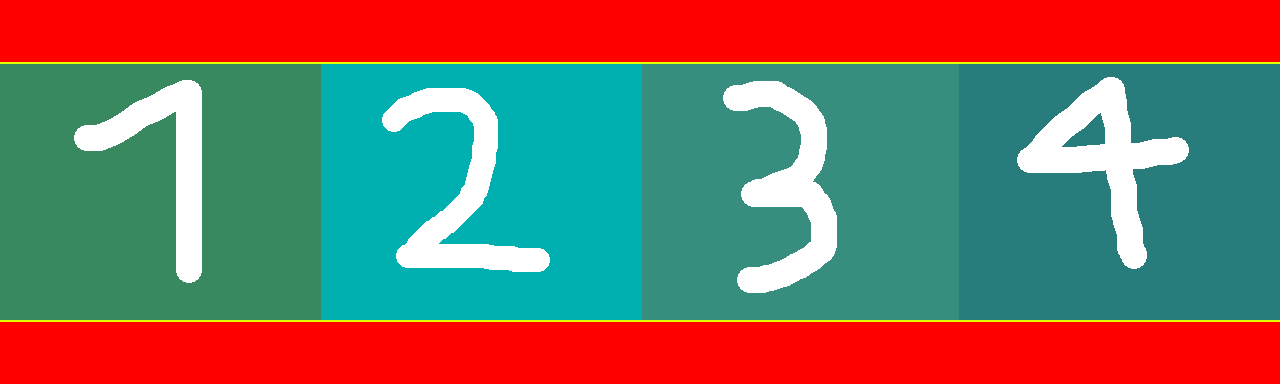
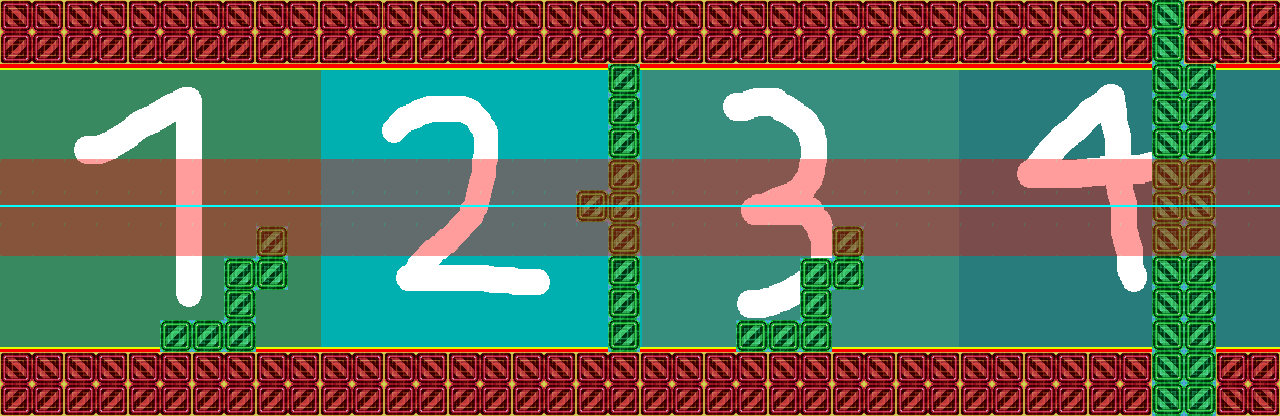
- Added blocks - Added temporary block spawner - Revamped player control and collision (collision changes are related to blocks only) - Changed Background

diff --git a/Main/class__variables.py b/Main/class__variables.py
@@ -10,12 +10,13 @@ pygame.init()
 
 setAutoUpdate(False)
 
-W, H = 640, 384 #tool o arze windows
+W, H = 640, 416 #tool o arze windows
 win = screenSize(W,H)
 
 global scrollSpeed
+
 scrollSpeed = -5 #sorat harekate background
-setBackgroundImage("images/bg.png")
+setBackgroundImage("images/temp_bg.png")
 
 setWindowTitle("Gravity Ninja")
 setIcon('images/icon.png')
@@ -37,8 +38,9 @@ class Spawner:
         self.x = x
         self.y = y
         self.localClock = clock()
+        self.init = True
     def spawnCoin(self):
-        global coinlist , c , Spr , Pt
+        global coinlist , Spr , Pt
         Spr = "images/spr_coin1.png"
         Pt = 5
         RanY = [290,240,190,140,90]
@@ -63,17 +65,21 @@ class Spawner:
             coinlist.append(Coin(self.x, random.choice(RanY),11,11, Spr, Pt))
         for c in coinlist:
             c.spawn()
+            if c.xpos < 0:
+                coinlist.pop(coinlist.index(c))
+                killSprite(c.sprite)
             if c.collide(pl.hitbox):
                 coinlist.pop(coinlist.index(c))
                 killSprite(c.sprite)
-                playSound(s_coin)
                 c.collected = True
+                playSound(s_coin)
                 scoreboard.Addscore(c.point)
+
 
 
     def spawnHazard(self):
         global enemylist, h
-        RanY = [290, 90]
+        RanY = [320, 96]
         RanTimer = random.randrange(7000, 10000) #later should be affected by screen/scroll speed(which increases overtime)
 
         if clock() > self.localClock:
@@ -87,19 +93,43 @@ class Spawner:
                 pl.despawn()
 
 
+    def spawnBlock(self):
+        global BLOCKlist
+        if clock() > self.localClock:
+            self.localClock = clock() + 250
+            if self.init:
+                for i in range(1, 742, 32):
+                    BLOCKlist.append(Block(0 + i, 18, 32, 32, "images/spr_block.png"))
+                    BLOCKlist.append(Block(0 + i, 50, 32, 32, "images/spr_block.png"))
+                    BLOCKlist.append(Block(0 + i, 400, 32, 32, "images/spr_block.png"))
+                    BLOCKlist.append(Block(0 + i, 368, 32, 32, "images/spr_block.png"))
+                self.init = False
+            BLOCKlist.append(Block(640, 18, 32, 32, "images/spr_block.png"))
+            BLOCKlist.append(Block(640, 50, 32, 32, "images/spr_block.png"))
+            BLOCKlist.append(Block(640, 400, 32, 32, "images/spr_block.png"))
+            BLOCKlist.append(Block(640, 368, 32, 32, "images/spr_block.png"))
+        for b in BLOCKlist:
+            b.spawn()
+            if b.xpos < 0:
+                BLOCKlist.pop(BLOCKlist.index(b))
+                killSprite(b.sprite)
+
+
 class Player:
 
-    def __init__(self,xpos,ypos,width,height,grav,spr):
+    def __init__(self,xpos,ypos,width,height,spr):
         self.alive = True
         self.xpos = xpos
         self.ypos = ypos
         self.width = width
         self.height = height
-        self.grav = grav #har che ghadr bishtar bashe jazebe bishtare
+        self.grav = 7 #har che ghadr bishtar bashe jazebe bishtare
         self.sprite = makeSprite(spr,frames=32) #akse player
         self.xgrav = 1 # age -1 beshe yani jazabe bar aks shode
-        self.inAir = False #in vase ine ke vasat paridan natooni jazabe taghir bedi
+        self.inAir = True #in vase ine ke vasat paridan natooni jazabe taghir bedi
         self.mg = "regG" # in nabashe player toye zamin fooroo mire (zamin kononie player ro taeen mikone)
+        self.Grounded = False
+        self.IsonGround = False
 
         ##### marboot be animation va hitbox
         self.frame = 0
@@ -108,6 +138,7 @@ class Player:
         self.hitbox = (self.xpos - 5.5, self.ypos - 5.5, self.width, self.height)
 
     def spawn(self):
+
         showSprite(self.sprite)
         if clock() > self.localClock:  ##### marboot be animation
             self.frame = (self.frame+1)%self.gframe
@@ -117,29 +148,21 @@ class Player:
         
             #control player
         
-            if (keyPressed("up") and self.inAir == False and self.mg == "regG"): #kelid bala ro bezanin player mipare bala. hamchenin check mikone ke 1.player toye hava nist 2.player roye zamine (2 baad taghir mikone)
+            if (keyPressed("up") and self.inAir == False and self.Grounded == True and self.mg == "regG"): #kelid bala ro bezanin player mipare bala. hamchenin check mikone ke 1.player toye hava nist 2.player roye zamine (2 baad taghir mikone)
                 playSound(s_jump)
-                self.xgrav = -1                                             #jazebe bar aks mishe
-            elif (keyPressed("down") and self.inAir == False and self.mg == "revG"): #mesle ghabli vali baraye az bala be paeen omadane player (kelid paeen ro bezanim mipare paeen)
+                self.Grounded = False
+                self.inAir = True
+                self.mg = "revG"
+                self.xgrav = -1
+            elif (keyPressed("down") and self.inAir == False and self.Grounded == True and self.mg == "revG"): #mesle ghabli vali baraye az bala be paeen omadane player (kelid paeen ro bezanim mipare paeen)
                 playSound(s_jump)
-                self.xgrav = 1                                              #jazebe bar migarde halat addi
+                self.Grounded = False
+                self.inAir = True
+                self.mg = "regG"
+                self.xgrav = 1
 
             self.ypos += (self.grav * self.xgrav) # mokhtasat y player ro hesab mikone
             moveSprite(self.sprite, self.xpos, self.ypos, True) #bar asas jazabe player tekoon mikhore
-
-
-            if self.ypos >= 320: #in be tor movaghat ye zamin dorost mikone ta player roosh vayste
-                self.xgrav = 0 #baad ina ro be ye class "floor" ya "wall" ke ye objecte jodas montaghel mikonim
-                self.mg = "regG"
-                self.inAir = False
-
-            elif self.ypos <= 64:
-                self.xgrav = 0
-                self.mg = "revG"
-                self.inAir = False
-
-            else:
-                self.inAir = True
 
             #Animatione player
             if self.inAir == False:
@@ -160,6 +183,31 @@ class Player:
 
             self.hitbox = (self.xpos - 25, self.ypos - 25, self.width, self.height)
         #pygame.draw.rect(win, (0, 0, 255), self.hitbox, 2)
+
+    def collide(self, rect):
+        if rect[0] + rect[2] > self.hitbox[0] and rect[0] < self.hitbox[0] + self.hitbox[2]:
+            if rect[1] + rect[3] > self.hitbox[1] and rect[1] < self.hitbox[1] + self.hitbox[3]:
+                return True
+        return False
+
+    def collisionCheck(self):
+
+        if self.mg == "regG":
+            self.xgrav = 1
+        if self.mg == "revG":
+            self.xgrav = -1
+
+
+        global i
+        for i in BLOCKlist:
+
+            if i.pseudoCollide(self.hitbox):
+                self.Grounded = True
+                self.inAir = False
+                self.xgrav = 0
+
+            if i.collide(self.hitbox):
+                print("player hit a block")
 
     def despawn(self): #player mimire va spritesh az bane mire
         if self.alive == True:
@@ -197,10 +245,6 @@ class Coin:
             moveSprite(self.sprite, self.xpos, self.ypos, True)
             changeSpriteImage(self.sprite, 0 * 8 + self.frame)
 
-        if self.xpos < 0:
-            killSprite(self.sprite)
-            self.collected = True
-
         self.hitbox = (self.xpos - 5.5, self.ypos - 5.5, self.width, self.height)
         # pygame.draw.rect(win, (0, 0, 255), self.hitbox, 2)
 
@@ -225,7 +269,7 @@ class Enemy:
     def spawn(self):
         showSprite(self.sprite)
         self.xpos -= self.speed
-        if self.ypos == 90:
+        if self.ypos == 96:
             changeSpriteImage(self.sprite,1)
         else:
             changeSpriteImage(self.sprite,0)
@@ -233,7 +277,7 @@ class Enemy:
         moveSprite(self.sprite, self.xpos, self.ypos, True)
 
         self.hitbox = (self.xpos - 46.5, self.ypos - 29, self.width - 36, self.height)
-        pygame.draw.rect(win, (0, 0, 255), self.hitbox, 2)
+        #pygame.draw.rect(win, (0, 0, 255), self.hitbox, 2)
         if self.xpos < -50:
             killSprite(self.sprite)
 
@@ -244,10 +288,45 @@ class Enemy:
                 return True
         return False
 
+
+class Block:
+    def __init__(self,xpos,ypos,width,height,spr):
+        self.xpos = xpos
+        self.ypos = ypos
+        self.width = width
+        self.height = height
+        self.sprite = makeSprite(spr)
+        self.speed = 2
+        self.frame = 0
+        self.gframe = 8
+        self.localClock = clock()
+        self.hitbox = (self.xpos - 16, self.ypos - 16, self.width, self.height)
+        self.pitbox = (self.xpos - 19, self.ypos - 24, self.width + 4, self.height + 10)
+    def spawn(self):
+        showSprite(self.sprite)
+        self.xpos -= self.speed
+        moveSprite(self.sprite, self.xpos, self.ypos, True)
+
+        self.hitbox = (self.xpos - 16, self.ypos - 16, self.width, self.height)
+        self.pitbox = (self.xpos - 19, self.ypos - 20, self.width + 4, self.height + 10)
+        #pygame.draw.rect(win, (0, 0, 255), self.pitbox, 2)
+
+    def collide(self, rect):
+        if rect[0] + rect[2] > self.hitbox[0] and rect[0] < self.hitbox[0] + self.hitbox[2]:
+            if rect[1] + rect[3] > self.hitbox[1] and rect[1] < self.hitbox[1] + self.hitbox[3]:
+                return True
+        return False
+
+    def pseudoCollide(self, rect):
+        if rect[0] + rect[2] > self.pitbox[0] and rect[0] < self.pitbox[0] + self.pitbox[2]:
+            if rect[1] + rect[3] > self.pitbox[1] and rect[1] < self.pitbox[1] + self.pitbox[3]:
+                return True
+        return False
+
 class ScoreSystem:
     def __init__(self, xpos, ypos,size): #sprite too?
         self.score = 0
-        self.body = makeLabel(str(self.score),size, xpos, ypos, "black")
+        self.body = makeLabel(str(self.score),size, xpos, ypos, "white")
     def Reset(self):
         self.score = 0
     def Setscore(self,num):
@@ -270,10 +349,11 @@ class MusicPlayer:
 
 
 global pl
-pl = Player(112,322,45,45,7,"images/SPR_NINJA.png")
+pl = Player(200,240,45,45,"images/SPR_NINJA.png")
 
 spawnerC = Spawner(750,322)
 spawnerH = Spawner(750,322)
+spawnerB = Spawner(750,64)
 
 global scoreboard
 scoreboard = ScoreSystem(575,10,40)
@@ -281,6 +361,11 @@ scoreboard.draw()
 
 coinlist = [Coin(-999, -999,11,11, "images/spr_coin1.png", 20)]
 enemylist = [Enemy(-999, -999,113,58, "images/spr_enemy.png")]
+BLOCKlist = [Block(-999, -999,113,58, "images/spr_enemy.png")]
+
+
 
 playSound(mus_test1,loops=-1) #turn to class (music player)
+
+
 

diff --git a/Main/main_loop.py b/Main/main_loop.py
@@ -9,11 +9,15 @@ import random
 
 run = True
 
+
+
 while run:
 
     pl.spawn()
     spawnerC.spawnCoin()
     spawnerH.spawnHazard()
+    spawnerB.spawnBlock()
+    pl.collisionCheck()
     scrollBackground(scrollSpeed, 0)  # harekate background
 
     # if (keyPressed("left")): #in size windows ro tagheer mide. shayad be dard bokhore baadan.
